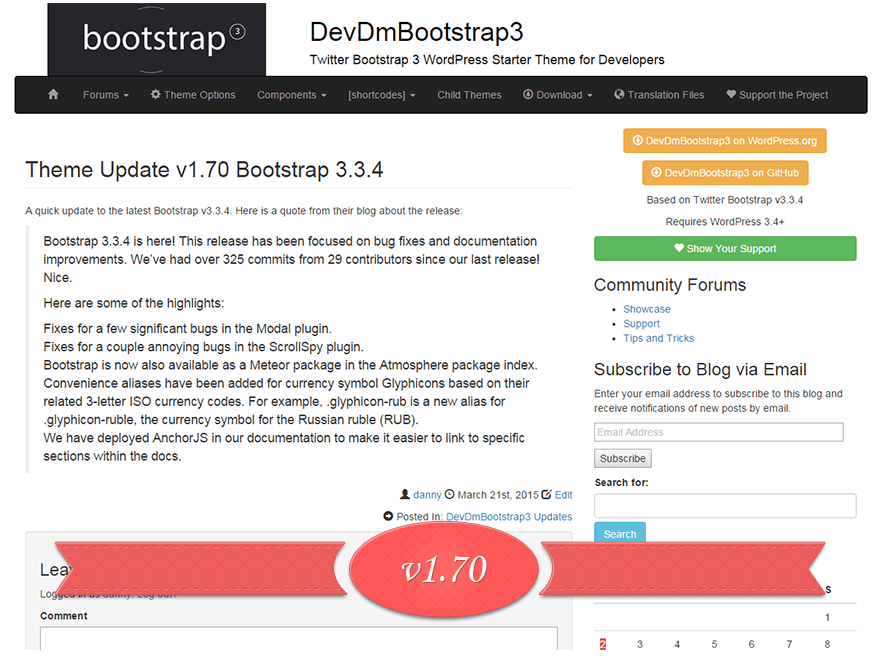
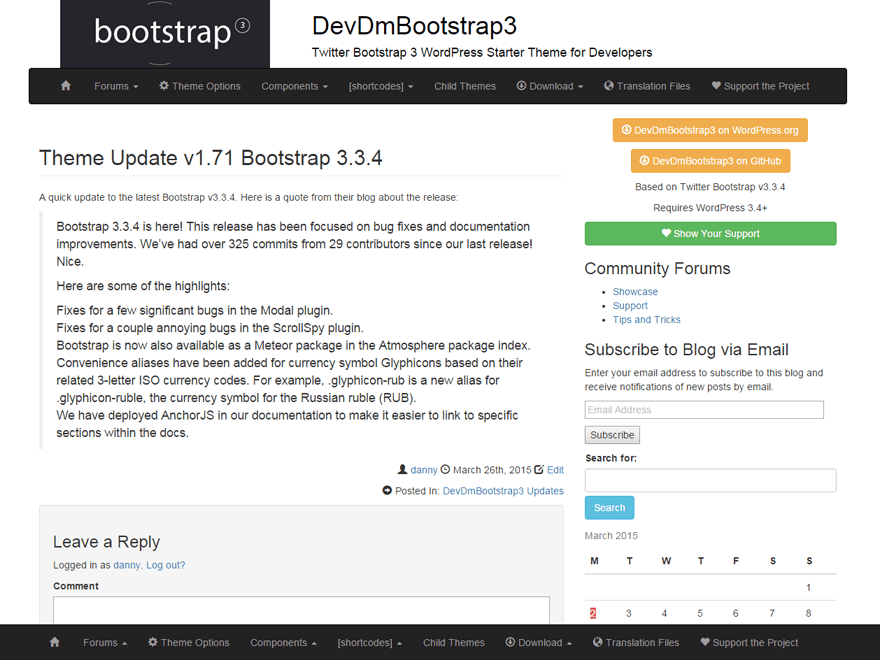
screen shot update and v1.71

diff --git a/devdmbootstrap3-child/style.css b/devdmbootstrap3-child/style.css
@@ -3,8 +3,8 @@ Theme Name: devdmbootstrap3-child
 Theme URI: http://devdm.com/DevDmBootstrap3
 Author: Danny Machal
 Author URI: http://devdm.com/
-Description: A devdmbootstrap3 v1.70 child theme.
-Version: 1.70
+Description: A devdmbootstrap3 v1.71 child theme.
+Version: 1.71
 License: GNU General Public License v2 or later
 License URI: http://www.gnu.org/licenses/gpl-2.0.html
 Tags: one-column, two-columns, right-sidebar, fluid-layout, custom-background, custom-header, custom-menu, editor-style, featured-images, flexible-header, rtl-language-support, theme-options, translation-ready

diff --git a/devdmbootstrap3/style.css b/devdmbootstrap3/style.css
@@ -4,7 +4,7 @@ Theme URI: http://devdm.com/DevDmBootstrap3
 Author: Danny Machal
 Author URI: http://devdm.com/
 Description: A versatile and responsive Bootstrap WordPress starter theme FOR DEVELOPERS based on Twitter Bootstrap 3.3.4.
-Version: 1.70
+Version: 1.71
 License: GNU General Public License v3
 License URI: http://www.gnu.org/licenses/gpl.html
 Tags: one-column, two-columns, right-sidebar, fluid-layout, custom-background, custom-header, custom-menu, editor-style, featured-images, flexible-header, rtl-language-support, theme-options, translation-ready

diff --git a/devdmbootstrap3/functions.php b/devdmbootstrap3/functions.php
@@ -7,7 +7,7 @@
     $themename = "DevDmBootstrap3";
     $developer_uri = "http://devdm.com";
     $shortname = "dm";
-    $version = '1.70';
+    $version = '1.71';
     load_theme_textdomain( 'devdmbootstrap3', get_template_directory() . '/languages' );
 
 ////////////////////////////////////////////////////////////////////
